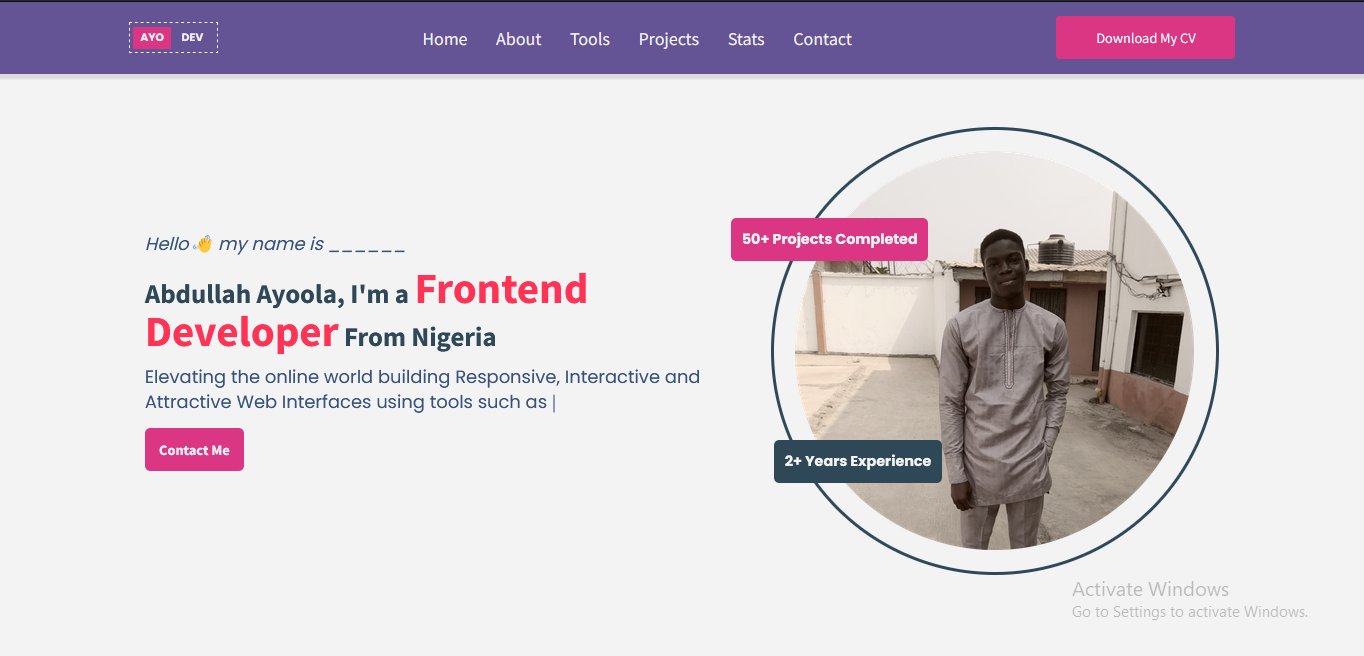
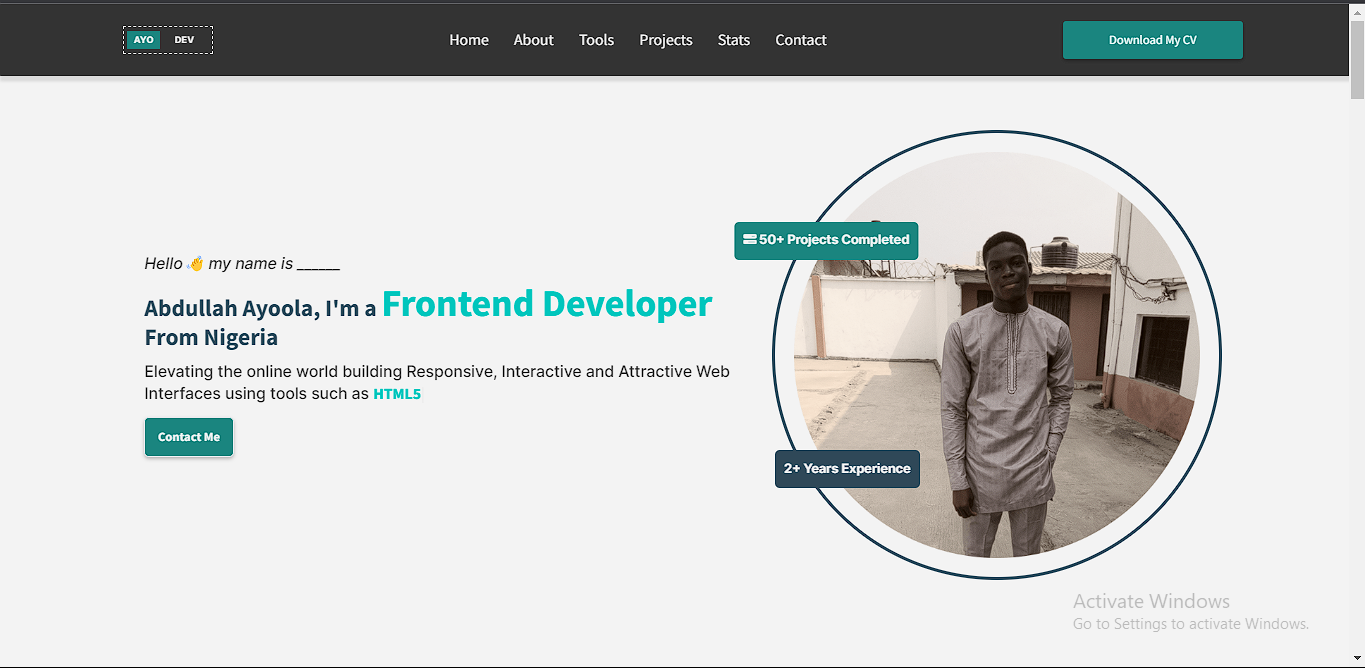
added final finishing touches, and updated the readme

diff --git a/dist/assets/index-09e1a9b3.js b/dist/assets/index-09e1a9b3.js
@@ -63,4 +63,4 @@ Error generating stack: `+i.message+`
           -webkit-animation: 0;
           animation: 0;
         }
[2 lines of base64/hex data omitted]

diff --git a/dist/assets/index-12475a5b.css b/dist/assets/index-12475a5b.css
@@ -1,0 +1,1 @@
+@import"https://fonts.googleapis.com/css2?family=Source+Sans+Pro:wght@400;600;700&display=swap";@import"https://fonts.googleapis.com/css2?family=Inter:wght@400;500;700&display=swap";*,:before,:after{box-sizing:border-box;border-width:0;border-style:solid;border-color:#e5e7eb}:before,:after{--tw-content: ""}html{line-height:1.5;-webkit-text-size-adjust:100%;-moz-tab-size:4;-o-tab-size:4;tab-size:4;font-family:ui-sans-serif,system-ui,-apple-system,BlinkMacSystemFont,Segoe UI,Roboto,Helvetica Neue,Arial,Noto Sans,sans-serif,"Apple Color Emoji","Segoe UI Emoji",Segoe UI Symbol,"Noto Color Emoji";font-feature-settings:normal;font-variation-settings:normal}body{margin:0;line-height:inherit}hr{height:0;color:inherit;border-top-width:1px}abbr:where([title]){-webkit-text-decoration:underline dotted;text-decoration:underline dotted}h1,h2,h3,h4,h5,h6{font-size:inherit;font-weight:inherit}a{color:inherit;text-decoration:inherit}b,strong{font-weight:bolder}code,kbd,samp,pre{font-family:ui-monospace,SFMono-Regular,Menlo,Monaco,Consolas,Liberation Mono,Courier New,monospace;font-size:1em}small{font-size:80%}sub,sup{font-size:75%;line-height:0;position:relative;vertical-align:baseline}sub{bottom:-.25em}sup{top:-.5em}table{text-indent:0;border-color:inherit;border-collapse:collapse}button,input,optgroup,select,textarea{font-family:inherit;font-size:100%;font-weight:inherit;line-height:inherit;color:inherit;margin:0;padding:0}button,select{text-transform:none}button,[type=button],[type=reset],[type=submit]{-webkit-appearance:button;background-color:transparent;background-image:none}:-moz-focusring{outline:auto}:-moz-ui-invalid{box-shadow:none}progress{vertical-align:baseline}::-webkit-inner-spin-button,::-webkit-outer-spin-button{height:auto}[type=search]{-webkit-appearance:textfield;outline-offset:-2px}::-webkit-search-decoration{-webkit-appearance:none}::-webkit-file-upload-button{-webkit-appearance:button;font:inherit}summary{display:list-item}blockquote,dl,dd,h1,h2,h3,h4,h5,h6,hr,figure,p,pre{margin:0}fieldset{margin:0;padding:0}legend{padding:0}ol,ul,menu{list-style:none;margin:0;padding:0}textarea{resize:vertical}input::-moz-placeholder,textarea::-moz-placeholder{opacity:1;color:#9ca3af}input::placeholder,textarea::placeholder{opacity:1;color:#9ca3af}button,[role=button]{cursor:pointer}:disabled{cursor:default}img,svg,video,canvas,audio,iframe,embed,object{display:block;vertical-align:middle}img,video{max-width:100%;height:auto}[hidden]{display:none}*,:before,:after{--tw-border-spacing-x: 0;--tw-border-spacing-y: 0;--tw-translate-x: 0;--tw-translate-y: 0;--tw-rotate: 0;--tw-skew-x: 0;--tw-skew-y: 0;--tw-scale-x: 1;--tw-scale-y: 1;--tw-pan-x: ;--tw-pan-y: ;--tw-pinch-zoom: ;--tw-scroll-snap-strictness: proximity;--tw-ordinal: ;--tw-slashed-zero: ;--tw-numeric-figure: ;--tw-numeric-spacing: ;--tw-numeric-fraction: ;--tw-ring-inset: ;--tw-ring-offset-width: 0px;--tw-ring-offset-color: #fff;--tw-ring-color: rgb(59 130 246 / .5);--tw-ring-offset-shadow: 0 0 #0000;--tw-ring-shadow: 0 0 #0000;--tw-shadow: 0 0 #0000;--tw-shadow-colored: 0 0 #0000;--tw-blur: ;--tw-brightness: ;--tw-contrast: ;--tw-grayscale: ;--tw-hue-rotate: ;--tw-invert: ;--tw-saturate: ;--tw-sepia: ;--tw-drop-shadow: ;--tw-backdrop-blur: ;--tw-backdrop-brightness: ;--tw-backdrop-contrast: ;--tw-backdrop-grayscale: ;--tw-backdrop-hue-rotate: ;--tw-backdrop-invert: ;--tw-backdrop-opacity: ;--tw-backdrop-saturate: ;--tw-backdrop-sepia: }::backdrop{--tw-border-spacing-x: 0;--tw-border-spacing-y: 0;--tw-translate-x: 0;--tw-translate-y: 0;--tw-rotate: 0;--tw-skew-x: 0;--tw-skew-y: 0;--tw-scale-x: 1;--tw-scale-y: 1;--tw-pan-x: ;--tw-pan-y: ;--tw-pinch-zoom: ;--tw-scroll-snap-strictness: proximity;--tw-ordinal: ;--tw-slashed-zero: ;--tw-numeric-figure: ;--tw-numeric-spacing: ;--tw-numeric-fraction: ;--tw-ring-inset: ;--tw-ring-offset-width: 0px;--tw-ring-offset-color: #fff;--tw-ring-color: rgb(59 130 246 / .5);--tw-ring-offset-shadow: 0 0 #0000;--tw-ring-shadow: 0 0 #0000;--tw-shadow: 0 0 #0000;--tw-shadow-colored: 0 0 #0000;--tw-blur: ;--tw-brightness: ;--tw-contrast: ;--tw-grayscale: ;--tw-hue-rotate: ;--tw-invert: ;--tw-saturate: ;--tw-sepia: ;--tw-drop-shadow: ;--tw-backdrop-blur: ;--tw-backdrop-brightness: ;--tw-backdrop-contrast: ;--tw-backdrop-grayscale: ;--tw-backdrop-hue-rotate: ;--tw-backdrop-invert: ;--tw-backdrop-opacity: ;--tw-backdrop-saturate: ;--tw-backdrop-sepia: }.visible{visibility:visible}.static{position:static}.fixed{position:fixed}.absolute{position:absolute}.relative{position:relative}.bottom-16{bottom:4rem}.bottom-6{bottom:1.5rem}.bottom-\[20\%\]{bottom:20%}.left-0{left:0px}.right-0{right:0px}.right-8{right:2rem}.top-0{top:0px}.top-6{top:1.5rem}.top-\[5\%\]{top:5%}.top-\[80px\]{top:80px}.z-50{z-index:50}.mx-4{margin-left:1rem;margin-right:1rem}.mx-auto{margin-left:auto;margin-right:auto}.my-16{margin-top:4rem;margin-bottom:4rem}.my-32{margin-top:8rem;margin-bottom:8rem}.my-4{margin-top:1rem;margin-bottom:1rem}.my-6{margin-top:1.5rem;margin-bottom:1.5rem}.my-8{margin-top:2rem;margin-bottom:2rem}.my-\[60px\]{margin-top:60px;margin-bottom:60px}.mb-16{margin-bottom:4rem}.mb-2{margin-bottom:.5rem}.mb-6{margin-bottom:1.5rem}.mt-2{margin-top:.5rem}.mt-4{margin-top:1rem}.flex{display:flex}.hidden{display:none}.h-10{height:2.5rem}.h-16{height:4rem}.h-\[300px\]{height:300px}.h-\[350px\]{height:350px}.h-\[80px\]{height:80px}.h-auto{height:auto}.h-full{height:100%}.w-10{width:2.5rem}.w-16{width:4rem}.w-\[100px\]{width:100px}.w-\[200px\]{width:200px}.w-\[300px\]{width:300px}.w-\[350px\]{width:350px}.w-\[50\%\]{width:50%}.w-full{width:100%}.max-w-\[1000px\]{max-width:1000px}.max-w-\[1300px\]{max-width:1300px}.max-w-\[1366px\]{max-width:1366px}.max-w-\[150px\]{max-width:150px}.max-w-\[400px\]{max-width:400px}.max-w-\[40px\]{max-width:40px}.max-w-\[500px\]{max-width:500px}.max-w-\[700px\]{max-width:700px}.translate-x-0{--tw-translate-x: 0px;transform:translate(var(--tw-translate-x),var(--tw-translate-y)) rotate(var(--tw-rotate)) skew(var(--tw-skew-x)) skewY(var(--tw-skew-y)) scaleX(var(--tw-scale-x)) scaleY(var(--tw-scale-y))}.translate-x-\[100\%\]{--tw-translate-x: 100%;transform:translate(var(--tw-translate-x),var(--tw-translate-y)) rotate(var(--tw-rotate)) skew(var(--tw-skew-x)) skewY(var(--tw-skew-y)) scaleX(var(--tw-scale-x)) scaleY(var(--tw-scale-y))}.translate-x-\[2\%\]{--tw-translate-x: 2%;transform:translate(var(--tw-translate-x),var(--tw-translate-y)) rotate(var(--tw-rotate)) skew(var(--tw-skew-x)) skewY(var(--tw-skew-y)) scaleX(var(--tw-scale-x)) scaleY(var(--tw-scale-y))}.translate-y-\[-40\%\]{--tw-translate-y: -40%;transform:translate(var(--tw-translate-x),var(--tw-translate-y)) rotate(var(--tw-rotate)) skew(var(--tw-skew-x)) skewY(var(--tw-skew-y)) scaleX(var(--tw-scale-x)) scaleY(var(--tw-scale-y))}.cursor-pointer{cursor:pointer}.flex-col{flex-direction:column}.flex-col-reverse{flex-direction:column-reverse}.flex-wrap{flex-wrap:wrap}.items-start{align-items:flex-start}.items-center{align-items:center}.justify-center{justify-content:center}.justify-between{justify-content:space-between}.gap-16{gap:4rem}.gap-2{gap:.5rem}.gap-3{gap:.75rem}.gap-4{gap:1rem}.gap-6{gap:1.5rem}.gap-8{gap:2rem}.gap-\[1\.5rem\]{gap:1.5rem}.gap-\[2rem\]{gap:2rem}.gap-\[3rem\]{gap:3rem}.overflow-hidden{overflow:hidden}.rounded{border-radius:.25rem}.rounded-2xl{border-radius:1rem}.rounded-full{border-radius:9999px}.rounded-lg{border-radius:.5rem}.rounded-md{border-radius:.375rem}.rounded-l-2xl{border-top-left-radius:1rem;border-bottom-left-radius:1rem}.border-2{border-width:2px}.border-4{border-width:4px}.border-dashed{border-style:dashed}.border-background{--tw-border-opacity: 1;border-color:rgb(243 243 243 / var(--tw-border-opacity))}.border-cta{--tw-border-opacity: 1;border-color:rgb(26 133 127 / var(--tw-border-opacity))}.border-darkBlue{--tw-border-opacity: 1;border-color:rgb(51 51 51 / var(--tw-border-opacity))}.border-veryDarkBlue{--tw-border-opacity: 1;border-color:rgb(47 72 88 / var(--tw-border-opacity))}.bg-background{--tw-bg-opacity: 1;background-color:rgb(243 243 243 / var(--tw-bg-opacity))}.bg-cta{--tw-bg-opacity: 1;background-color:rgb(26 133 127 / var(--tw-bg-opacity))}.bg-darkBlue{--tw-bg-opacity: 1;background-color:rgb(51 51 51 / var(--tw-bg-opacity))}.bg-glass{background-color:#fff3}.bg-navBar{--tw-bg-opacity: 1;background-color:rgb(51 51 51 / var(--tw-bg-opacity))}.bg-veryDarkBlue{--tw-bg-opacity: 1;background-color:rgb(47 72 88 / var(--tw-bg-opacity))}.bg-white{--tw-bg-opacity: 1;background-color:rgb(255 255 255 / var(--tw-bg-opacity))}.p-1{padding:.25rem}.p-10{padding:2.5rem}.p-3{padding:.75rem}.p-4{padding:1rem}.p-6{padding:1.5rem}.p-8{padding:2rem}.px-16{padding-left:4rem;padding-right:4rem}.px-2{padding-left:.5rem;padding-right:.5rem}.px-3{padding-left:.75rem;padding-right:.75rem}.px-4{padding-left:1rem;padding-right:1rem}.px-8{padding-left:2rem;padding-right:2rem}.py-1{padding-top:.25rem;padding-bottom:.25rem}.py-2{padding-top:.5rem;padding-bottom:.5rem}.py-3{padding-top:.75rem;padding-bottom:.75rem}.py-4{padding-top:1rem;padding-bottom:1rem}.text-center{text-align:center}.text-2xl{font-size:1.5rem;line-height:2rem}.text-3xl{font-size:1.875rem;line-height:2.25rem}.text-4xl{font-size:2.25rem;line-height:2.5rem}.text-base{font-size:1rem;line-height:1.5rem}.text-lg{font-size:1.125rem;line-height:1.75rem}.text-sm{font-size:.875rem;line-height:1.25rem}.text-xl{font-size:1.25rem;line-height:1.75rem}.text-xs{font-size:.75rem;line-height:1rem}.font-bold{font-weight:700}.font-medium{font-weight:500}.italic{font-style:italic}.text-background{--tw-text-opacity: 1;color:rgb(243 243 243 / var(--tw-text-opacity))}.text-cta2{--tw-text-opacity: 1;color:rgb(0 198 189 / var(--tw-text-opacity))}.text-darkBlue{--tw-text-opacity: 1;color:rgb(51 51 51 / var(--tw-text-opacity))}.text-veryDarkBlue{--tw-text-opacity: 1;color:rgb(47 72 88 / var(--tw-text-opacity))}.text-white{--tw-text-opacity: 1;color:rgb(255 255 255 / var(--tw-text-opacity))}.underline{text-decoration-line:underline}.outline-none{outline:2px solid transparent;outline-offset:2px}*{padding:0;margin:0;box-sizing:border-box;font-family:Inter,sans-serif}html,body{min-height:100vh;width:100%;scroll-behavior:smooth;overflow-x:hidden;overflow-y:overlay}#root{min-height:100vh;width:100%}h1,h2,h3,h4,h5,h6,a,span{font-family:Source Sans Pro,sans-serif}.nav{box-shadow:3px 3px 3px 3px #0000001a}.burgerMenu div{margin-block:5px;height:3px;width:25px;background:#f3f3f3;transition:transform 1s ease,opacity 1s ease}.toggle .line1{transform:rotate(-45deg) translate(-6px,6px)}.toggle .line2{opacity:0}.toggle .line3{transform:rotate(45deg) translate(-5px,-6px)}button{box-shadow:0 2px 4px #00000040}button,li{transition:all .5s ease-in}#skill-set{width:100%;display:flex;justify-content:center;align-items:center;flex-direction:column;margin-block:45px}.grid-ctn{display:grid;grid-template-columns:repeat(2,1fr);place-content:center;gap:1.5rem;max-width:500px;margin-inline:auto;margin-block:25px}.skill{box-shadow:0 0 15px #0000001a;-webkit-backdrop-filter:blur(10px);backdrop-filter:blur(10px);display:flex;flex-direction:column;justify-content:center;align-items:center;width:120px;padding:15px 10px;border-radius:8px;cursor:pointer;font-weight:700;transition:scale .5s ease}.skill:hover{scale:1.09}@media (min-width: 768px){.grid-ctn{grid-template-columns:repeat(3,1fr)}}@media (min-width: 390px){.skill{width:150px}}@media (min-width: 468px){.skill{width:200px}}form{box-shadow:0 8px 32px #1f26875e;-webkit-backdrop-filter:blur(10px);backdrop-filter:blur(10px)}.tools-used>div{transition:all .5s ease-in-out}#hero-section{animation:slideUp 2s forwards;transform:translateY(200px);opacity:0}@keyframes slideUp{0%{opacity:0}to{transform:translateY(0);opacity:1}}#about div{transition:all 2s ease}#about div.slide-out{transform:translate(-100%);opacity:0}#about img{transition:all 2s ease}#about img.slide-out{transform:translate(100%);opacity:0}#myprojects .mainContent{transition:opacity 2s ease .2s}#myprojects .mainContent.show{opacity:0;visibility:invisible}.slide-in{transform:translate(0)!important;opacity:1!important;visibility:visible!important}.projects--container{display:grid;grid-template-columns:1fr;gap:4rem}.projects--container .project .imageContainer{box-shadow:3px 3px 10px 3px #0003}.projects--container .project .imageContainer img{transition:scale .5s ease}.cover{width:100%;height:100%;background-color:#3333;transform-origin:bottom;border-radius:6px;transform:translateY(100%);display:flex;position:absolute;left:0;top:0}.project:hover .cover{animation:hover 1s ease forwards}.project:hover img{scale:1.09}.project:not(:hover) .cover{animation:unHover 2s ease forwards}@keyframes hover{0%{transform:translateY(100%)}to{transform:translateY(0)}}@keyframes unHover{0%{transform:translateY(0)}to{transform:translateY(100%)}}.mobilenav{transition:transform 1s ease}form{grid-template-columns:repeat(2,1fr)}input:focus,textarea:focus{background-color:#e8f0fe}.scroll-to-top{animation:scrollToTop 3s linear infinite}@keyframes scrollToTop{0%{transform:translateY(0)}50%{transform:translateY(-40px)}to{transform:translateY(0)}}.circle{transition:background 1s ease,border .4s linear}.circle i{transition:color 1s ease}#githubstats{display:grid;grid-template-columns:1fr;place-content:center;gap:1rem}@media (min-width: 768px){#githubstats{grid-template-columns:repeat(2,1fr)}#githubstats>:first-child{grid-column:span 2}}.hide{opacity:0;transition:opacity 1s ease-in .5s}.visible{opacity:1!important}.fixedNav{position:fixed;top:0;left:0;right:0;width:100%;z-index:9999;animation:slideDown .5s ease-in}@keyframes slideDown{0%{transform:translateY(-50px)}to{transform:translateY(0)}}@media (max-width: 968px){.mainContent{box-shadow:3px 3px 3px 3px #0000001a}}.hover\:border-2:hover{border-width:2px}.hover\:border-dashed:hover{border-style:dashed}.hover\:border-cta:hover{--tw-border-opacity: 1;border-color:rgb(26 133 127 / var(--tw-border-opacity))}.hover\:border-navBar:hover{--tw-border-opacity: 1;border-color:rgb(51 51 51 / var(--tw-border-opacity))}.hover\:bg-transparent:hover{background-color:transparent}.hover\:text-cta:hover{--tw-text-opacity: 1;color:rgb(26 133 127 / var(--tw-text-opacity))}.hover\:text-cta2:hover{--tw-text-opacity: 1;color:rgb(0 198 189 / var(--tw-text-opacity))}.hover\:text-navBar:hover{--tw-text-opacity: 1;color:rgb(51 51 51 / var(--tw-text-opacity))}@media (min-width: 480px){.sm\:top-\[20\%\]{top:20%}.sm\:translate-x-\[-22\%\]{--tw-translate-x: -22%;transform:translate(var(--tw-translate-x),var(--tw-translate-y)) rotate(var(--tw-rotate)) skew(var(--tw-skew-x)) skewY(var(--tw-skew-y)) scaleX(var(--tw-scale-x)) scaleY(var(--tw-scale-y))}.sm\:translate-y-\[-80\%\]{--tw-translate-y: -80%;transform:translate(var(--tw-translate-x),var(--tw-translate-y)) rotate(var(--tw-rotate)) skew(var(--tw-skew-x)) skewY(var(--tw-skew-y)) scaleX(var(--tw-scale-x)) scaleY(var(--tw-scale-y))}}@media (min-width: 768px){.md\:relative{position:relative}.md\:top-0{top:0px}.md\:mx-0{margin-left:0;margin-right:0}.md\:ml-auto{margin-left:auto}.md\:block{display:block}.md\:grid{display:grid}.md\:hidden{display:none}.md\:h-auto{height:auto}.md\:w-1\/2{width:50%}.md\:w-\[40\%\]{width:40%}.md\:w-\[450px\]{width:450px}.md\:translate-x-0{--tw-translate-x: 0px;transform:translate(var(--tw-translate-x),var(--tw-translate-y)) rotate(var(--tw-rotate)) skew(var(--tw-skew-x)) skewY(var(--tw-skew-y)) scaleX(var(--tw-scale-x)) scaleY(var(--tw-scale-y))}.md\:translate-y-\[0\%\]{--tw-translate-y: 0%;transform:translate(var(--tw-translate-x),var(--tw-translate-y)) rotate(var(--tw-rotate)) skew(var(--tw-skew-x)) skewY(var(--tw-skew-y)) scaleX(var(--tw-scale-x)) scaleY(var(--tw-scale-y))}.md\:flex-row{flex-direction:row}.md\:flex-row-reverse{flex-direction:row-reverse}.md\:items-start{align-items:flex-start}.md\:justify-center{justify-content:center}.md\:bg-transparent{background-color:transparent}.md\:px-4{padding-left:1rem;padding-right:1rem}.md\:py-0{padding-top:0;padding-bottom:0}.md\:text-left{text-align:left}.md\:text-5xl{font-size:3rem;line-height:1}.md\:text-base{font-size:1rem;line-height:1.5rem}.md\:text-lg{font-size:1.125rem;line-height:1.75rem}.md\:text-xl{font-size:1.25rem;line-height:1.75rem}}@media (min-width: 968px){.lg\:block{display:block}.lg\:hidden{display:none}.lg\:w-\[600px\]{width:600px}.lg\:max-w-\[1200px\]{max-width:1200px}.lg\:flex-row{flex-direction:row}.lg\:flex-row-reverse{flex-direction:row-reverse}.lg\:rounded-l-2xl{border-top-left-radius:1rem;border-bottom-left-radius:1rem}.lg\:rounded-r-2xl{border-top-right-radius:1rem;border-bottom-right-radius:1rem}}

diff --git a/src/Components/Main/Projects.jsx b/src/Components/Main/Projects.jsx
@@ -50,13 +50,13 @@ export default function Projects() {
           <img src={project.img} alt={project.alt} className={`w-full ${project.reverse ? 'lg:rounded-r-2xl' : 'lg:rounded-l-2xl'}`} />
           <div className={`cover flex items-center justify-center gap-4 overflow-hidden ${project.reverse ? 'lg:rounded-r-2xl' : 'rounded-l-2xl'}`}>
             <a href={project.githubURL} target="_blank">
-              <div className="liveURL absolute left-0 top-3 bg-navBar px-16 py-3 text-background">
+              <div className="liveURL absolute left-0 top-6 bg-navBar px-16 py-3 text-background">
                 <i className="fa-brands fa-github fa-lg"></i> View on Github
               </div>
             </a>
 
             <a href={project.liveURL} target="_blank">
-              <div className="liveURL absolute bottom-3 right-0 bg-navBar px-16 py-3 text-background">
+              <div className="liveURL absolute bottom-6 right-0 bg-navBar px-16 py-3 text-background">
                 <i className="fa-solid fa-arrow-up-right-from-square fa-lg"></i> Check it out
               </div>
             </a>
@@ -72,7 +72,7 @@ export default function Projects() {
           <div className="tools-used flex flex-wrap items-center gap-3">
             {project.techStacks.map((techStack, i) => {
               return (
-                <div key={i} className={`${techStack.toLowerCase()} cursor-pointer rounded border-dashed border-darkBlue bg-darkBlue px-3 py-2 text-sm font-bold text-background hover:border-2 hover:bg-transparent hover:text-cta2 md:text-base`}>
+                <div key={i} className={`${techStack.toLowerCase()} cursor-pointer rounded border-2 border-dashed border-darkBlue bg-darkBlue px-3 py-2 text-sm font-bold text-background hover:bg-transparent hover:text-cta2 md:text-base`}>
                   {techStack}
                 </div>
               );

diff --git a/src/Components/Footer/Footer.jsx b/src/Components/Footer/Footer.jsx
@@ -142,7 +142,7 @@ export default function Footer() {
             </div>
 
             <div className="flex items-center">
-              <button className="mt-4 w-full rounded-md bg-cta px-4 py-3 font-bold text-background hover:border-2 hover:border-dashed hover:border-cta hover:bg-transparent hover:text-cta">
+              <button className="mt-4 w-full rounded-md border-2 bg-cta px-4 py-3 font-bold text-background hover:border-dashed hover:border-cta hover:bg-transparent hover:text-cta">
                 <i className="fa-solid fa-envelope"></i> Get In Touch
               </button>
             </div>

diff --git a/src/Components/Header/Hero.jsx b/src/Components/Header/Hero.jsx
@@ -48,7 +48,7 @@ export default function Hero() {
         </p>
 
         <a href="#contact-me">
-          <button className="mt-4 rounded-md bg-cta px-4 py-3 font-bold text-background hover:border-2 hover:border-dashed hover:border-cta hover:bg-transparent hover:text-cta">Contact Me</button>
+          <button className="mt-4 rounded-md border-2 bg-cta px-4 py-3 font-bold text-background hover:border-dashed hover:border-cta hover:bg-transparent hover:text-cta">Contact Me</button>
         </a>
       </section>
     </section>

diff --git a/dist/index.html b/dist/index.html
@@ -10,8 +10,8 @@
     />
     <script src="https://kit.fontawesome.com/37007fa821.js" crossorigin="anonymous"></script>
     <title>Ayo Dev's Portfolio</title>
-    <script type="module" crossorigin src="/assets/index-9c5261c5.js"></script>
-    <link rel="stylesheet" href="/assets/index-03f19672.css">
+    <script type="module" crossorigin src="/assets/index-09e1a9b3.js"></script>
+    <link rel="stylesheet" href="/assets/index-12475a5b.css">
   </head>
   <body class="bg-background">
     <div id="root"></div>

diff --git a/README.md b/README.md
@@ -41,31 +41,52 @@ useEffect(() => {
 
 const myProjects = projects.map((project) => {
   return (
-    <div key={project.id} className="project mx-auto flex w-full max-w-[400px] cursor-pointer flex-col items-center rounded-2xl bg-glass lg:max-w-[1200px] lg:flex-row lg:rounded-l-2xl">
-      <div className="imageContainer relative h-auto w-full cursor-pointer overflow-hidden rounded-t-2xl lg:rounded-l-2xl lg:rounded-r-none">
-        <img src={project.img} alt={project.alt} className="w-full rounded-t-2xl lg:rounded-l-2xl lg:rounded-r-none" />
-        <div className="cover flex items-center justify-center gap-4 overflow-hidden">
+    <div key={project.id} className={`project flex w-full cursor-pointer flex-col items-center rounded-2xl ${project.reverse ? 'lg:flex-row-reverse' : 'lg:flex-row'} lg:rounded-l-2xl`}>
+      <div className={`imageContainer relative h-auto w-full cursor-pointer overflow-hidden ${project.reverse ? 'lg:rounded-r-2xl' : 'lg:rounded-l-2xl'} hidden lg:block`}>
+        <img src={project.img} alt={project.alt} className={`w-full ${project.reverse ? 'lg:rounded-r-2xl' : 'lg:rounded-l-2xl'}`} />
+        <div className={`cover flex items-center justify-center gap-4 overflow-hidden ${project.reverse ? 'lg:rounded-r-2xl' : 'rounded-l-2xl'}`}>
           <a href={project.githubURL} target="_blank">
-            <i className="fa-brands fa-github fa-2xl fa-flip text-cta2"></i>
+            <div className="liveURL absolute left-0 top-6 bg-navBar px-16 py-3 text-background">
+              <i className="fa-brands fa-github fa-lg"></i> View on Github
+            </div>
           </a>
 
           <a href={project.liveURL} target="_blank">
-            <i className="fa-solid fa-arrow-up-right-from-square fa-bounce fa-2xl text-cta2"></i>
+            <div className="liveURL absolute bottom-6 right-0 bg-navBar px-16 py-3 text-background">
+              <i className="fa-solid fa-arrow-up-right-from-square fa-lg"></i> Check it out
+            </div>
           </a>
         </div>
       </div>
 
-      <div ref={(ref) => (contentData.current[project.id - 1] = ref)} className="mainContent show w-full p-8">
+      <div ref={(ref) => (contentData.current[project.id - 1] = ref)} className="mainContent show w-full bg-background p-8">
+        <p className="text-lg text-cta2">Featured Project</p>
+        <h2 className="my-4 text-2xl font-bold">{project.title}</h2>
+
         <p className="mb-6 text-darkBlue">{project.content}</p>
 
         <div className="tools-used flex flex-wrap items-center gap-3">
           {project.techStacks.map((techStack, i) => {
             return (
-              <div key={i} className={`${techStack.toLowerCase()} cursor-pointer rounded border-dashed border-darkBlue bg-darkBlue px-3 py-2 font-bold text-background hover:border-2 hover:bg-transparent hover:text-cta2`}>
+              <div key={i} className={`${techStack.toLowerCase()} cursor-pointer rounded border-2 border-dashed border-darkBlue bg-darkBlue px-3 py-2 text-sm font-bold text-background hover:bg-transparent hover:text-cta2 md:text-base`}>
                 {techStack}
               </div>
             );
           })}
+        </div>
+
+        <div className="socialIcons my-4 flex items-center gap-3 lg:hidden">
+          <a href={project.githubURL} target="_blank">
+            <div className="text-backgroun cursor-pointer rounded border-dashed border-darkBlue bg-darkBlue px-3 py-2 text-sm text-background hover:border-2 hover:bg-transparent hover:text-cta2 md:text-base">
+              <i className="fa-brands fa-github fa-lg"></i>
+            </div>
+          </a>
+
+          <a href={project.liveURL} target="_blank">
+            <div className="text-backgroun cursor-pointer rounded border-dashed border-darkBlue bg-darkBlue px-3 py-2 text-sm text-background hover:border-2 hover:bg-transparent hover:text-cta2 md:text-base">
+              <i className="fa-solid fa-arrow-up-right-from-square fa-lg"></i>
+            </div>
+          </a>
         </div>
       </div>
     </div>
